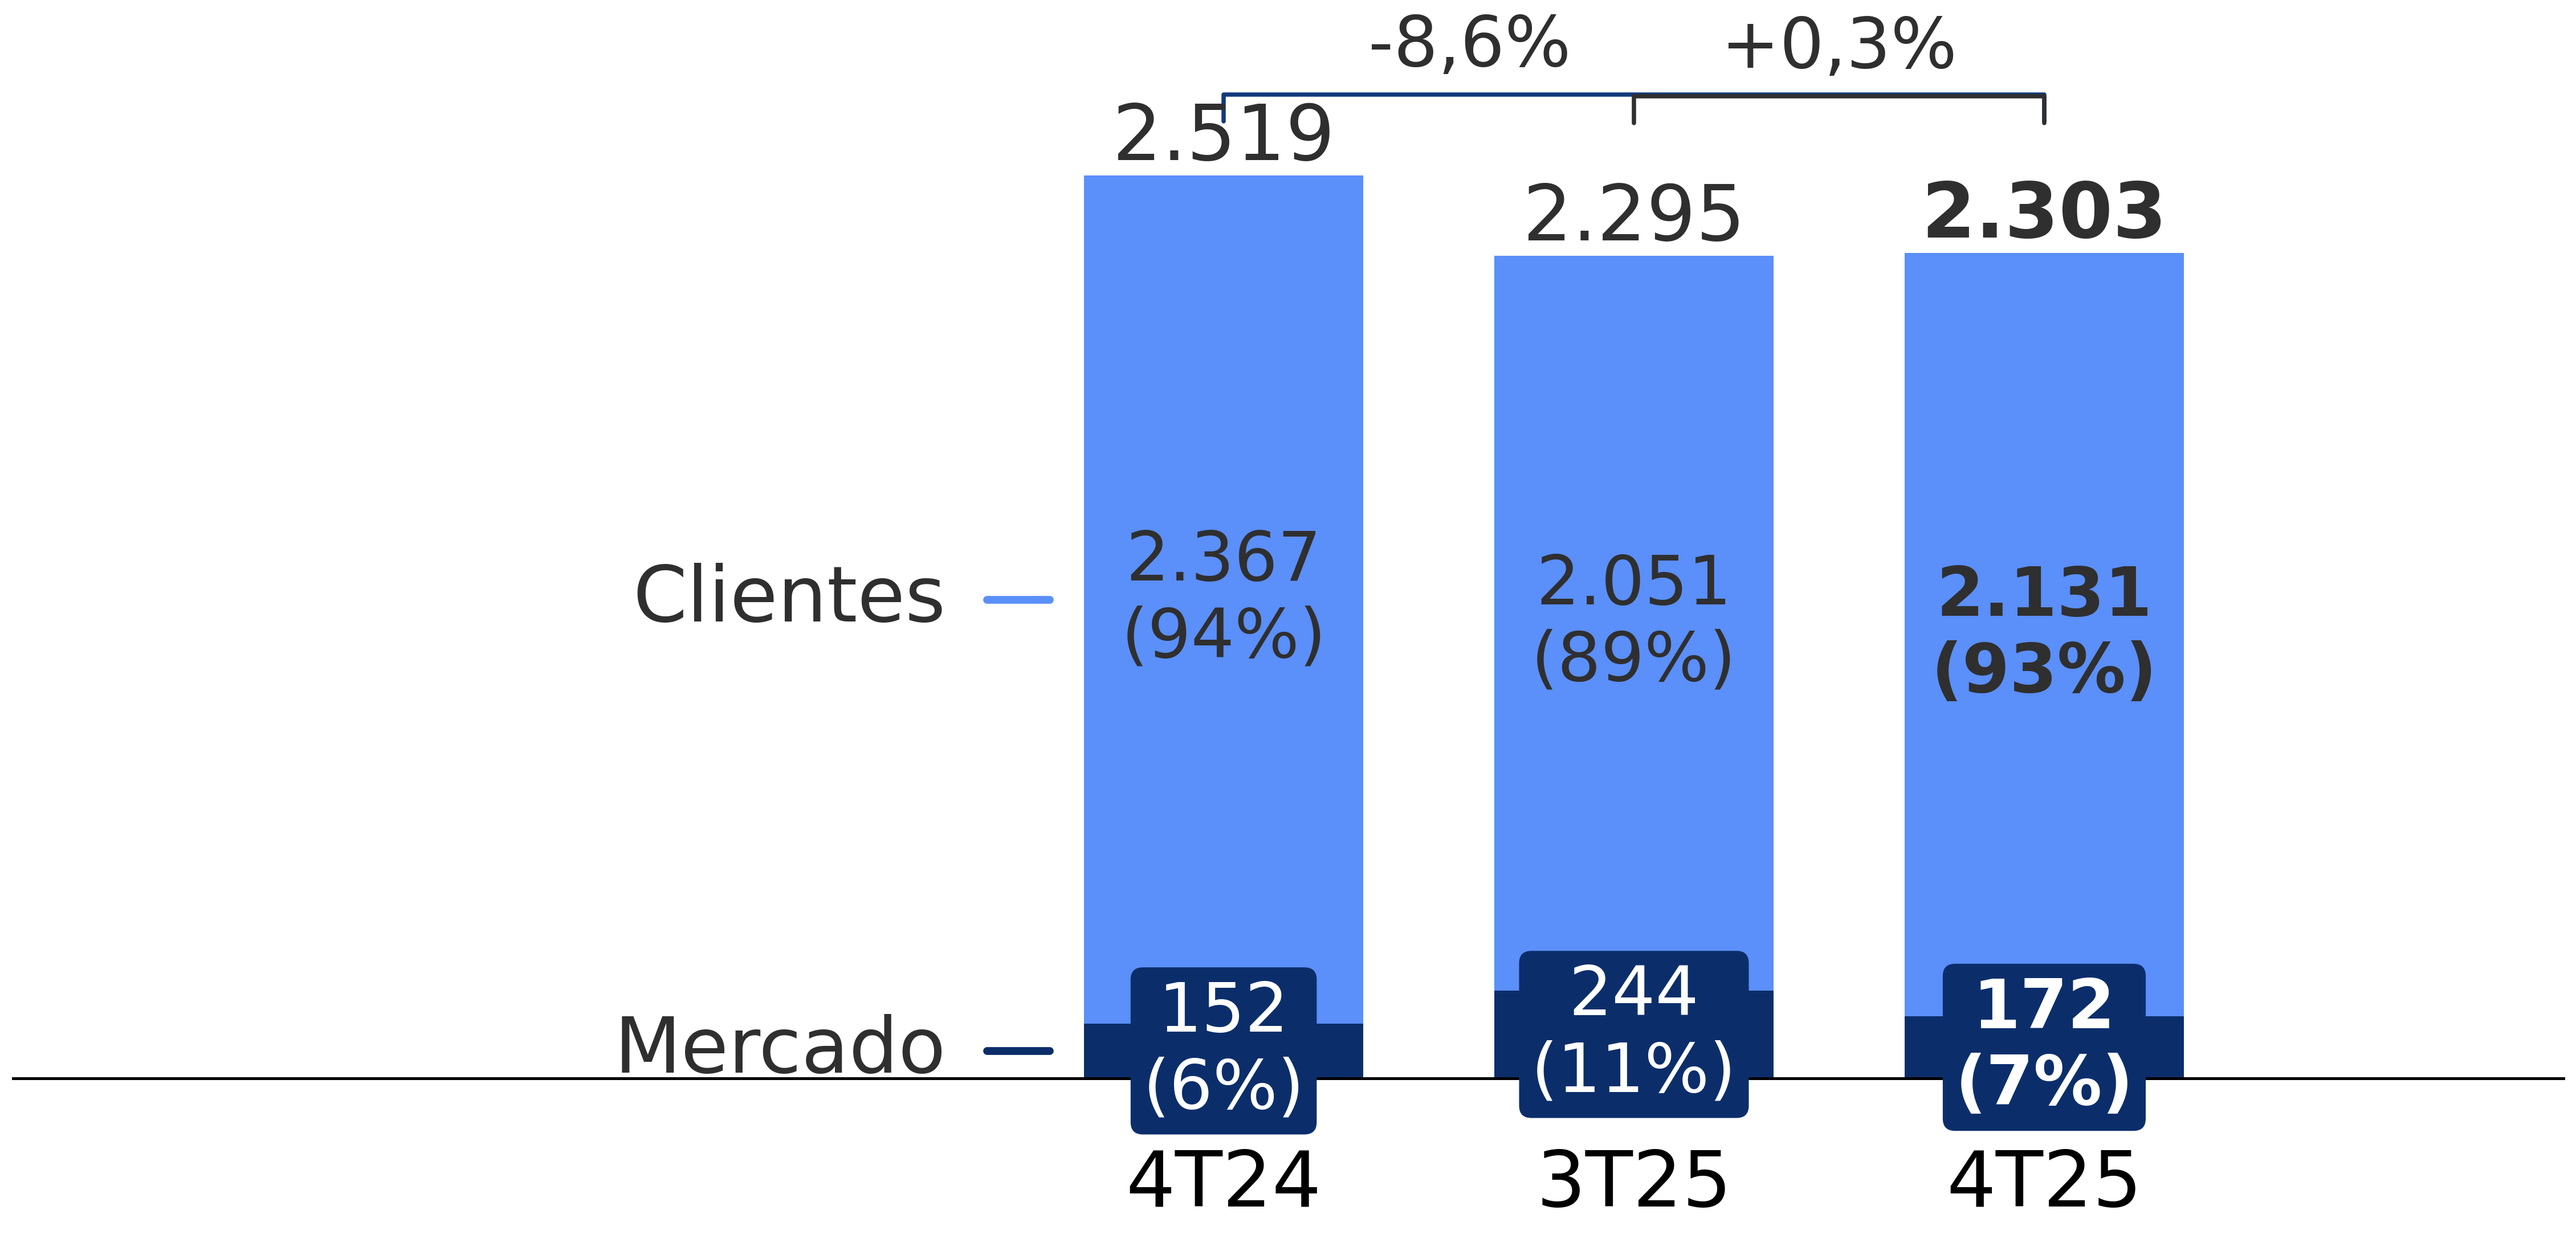
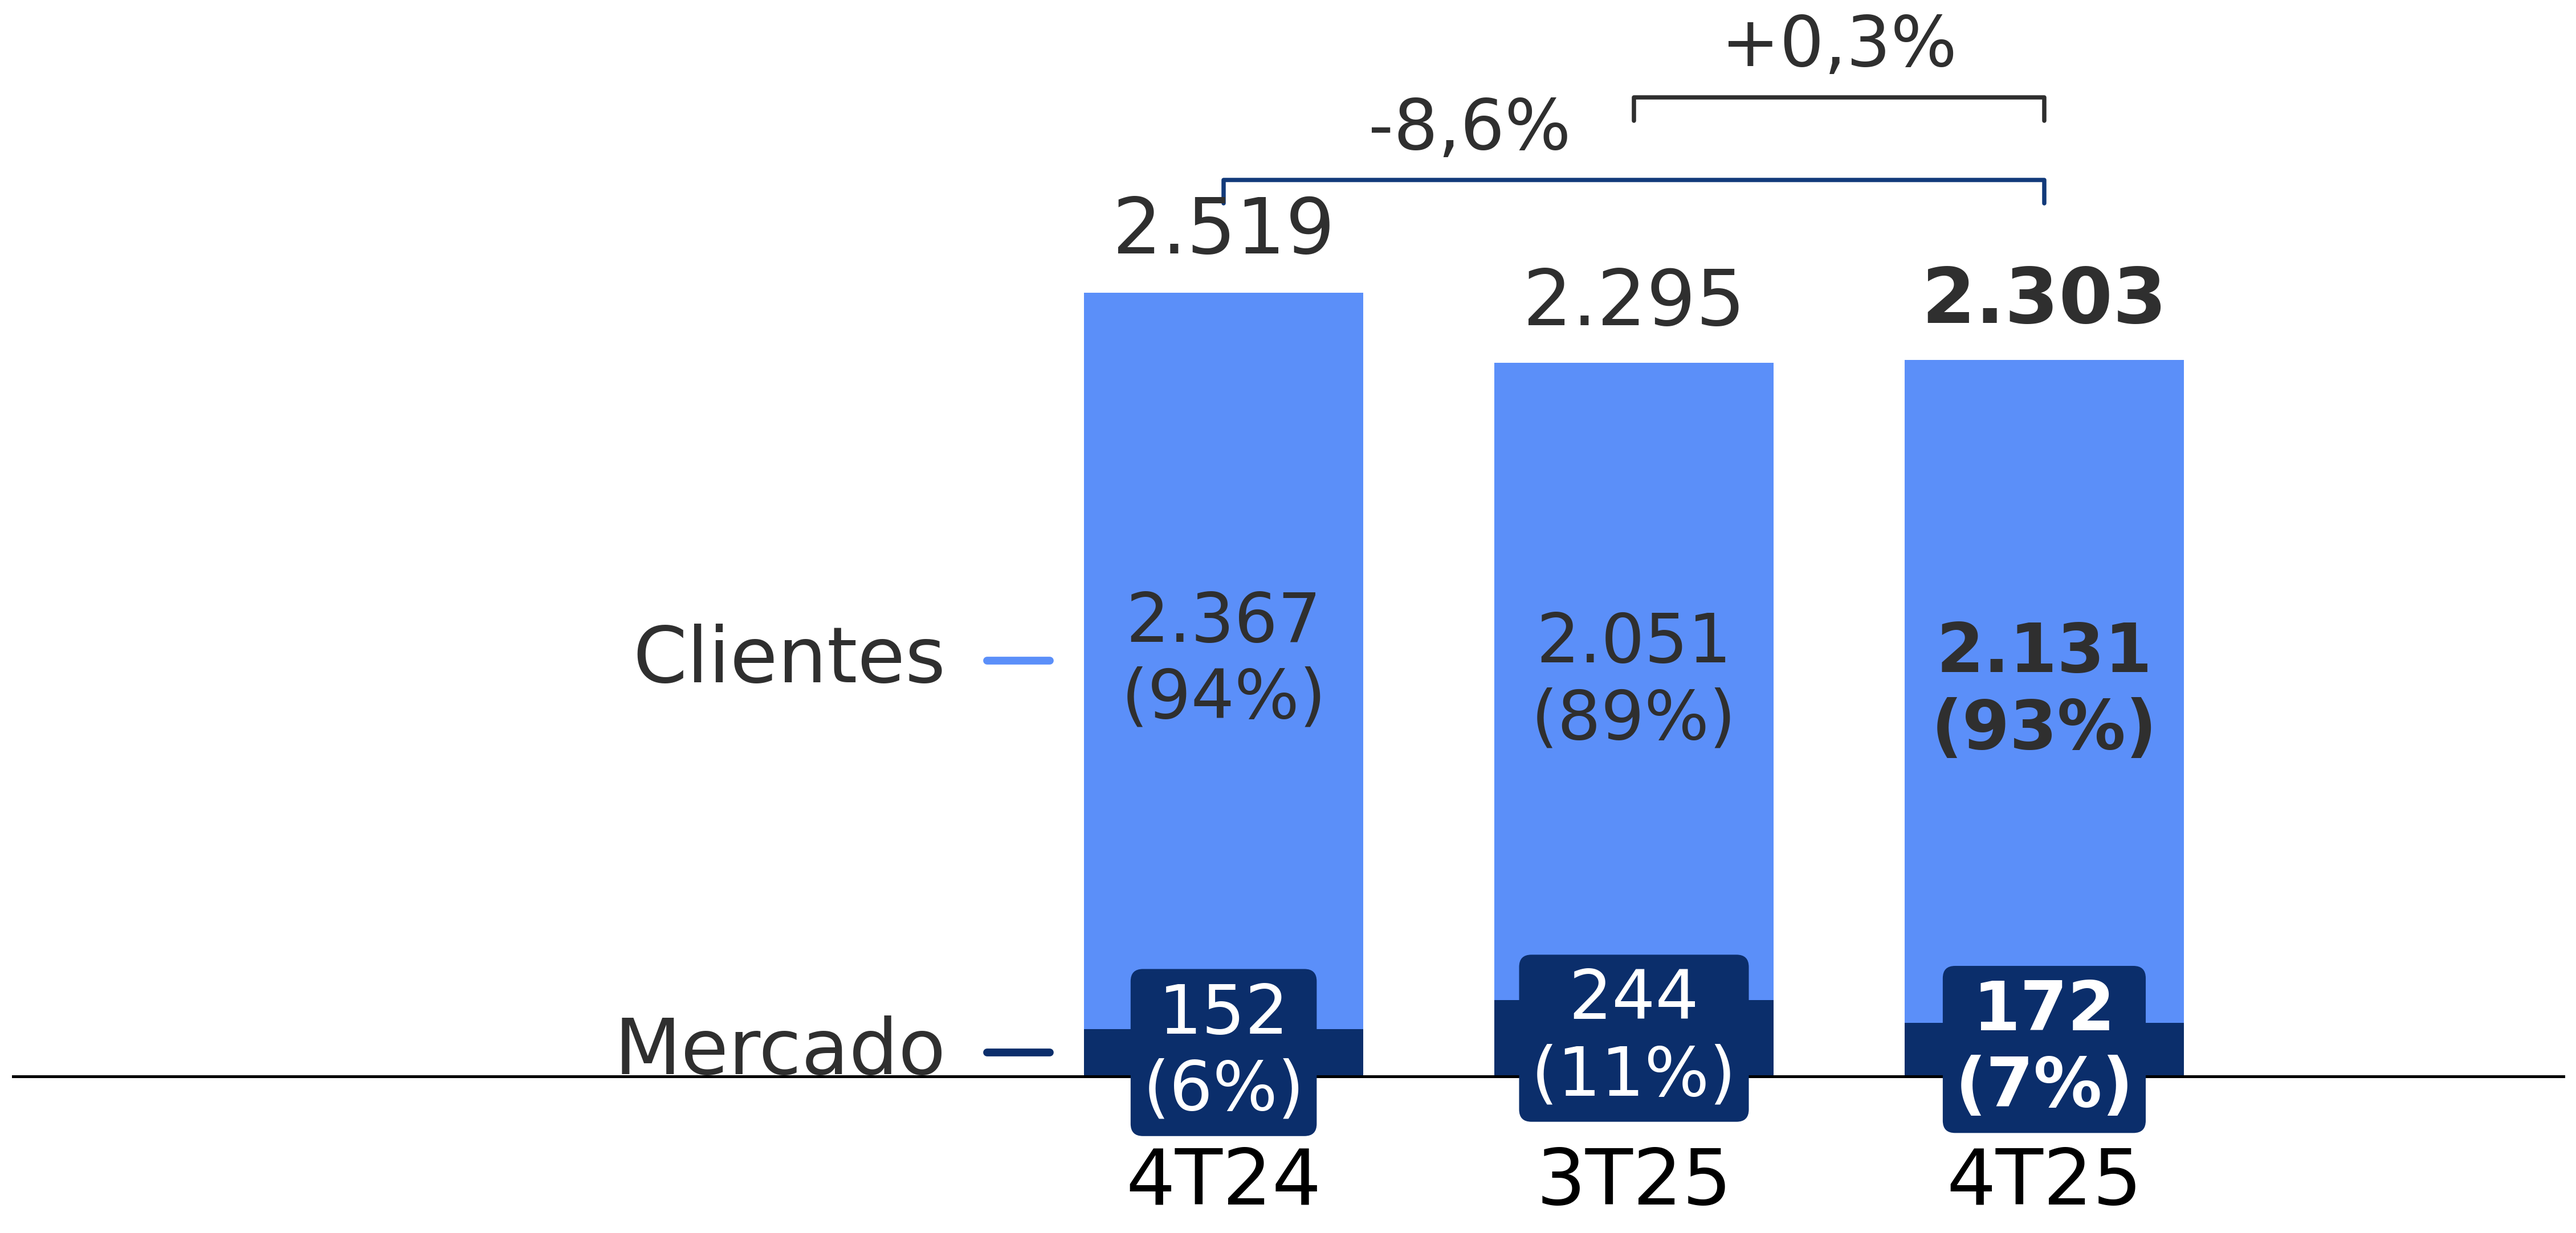
fine adjustment on slide8

diff --git a/src/utils/slides/slide8_charts.py b/src/utils/slides/slide8_charts.py
@@ -17,6 +17,7 @@ SLIDE8_TRIMESTRES_GAP_SCALE = 0.5
 SLIDE8_LEGEND_MAX_LINE_LEN = 10
 SLIDE8_9M_BAR_WIDTH_SCALE = 0.5
 SLIDE8_9M_GAP_SCALE = 0.5
+SLIDE8_DELTA_OFFSET_SCALE = 1.4
 SLIDE8_MFB_TRIMESTRES_X_TICK_PAD = 16
 SLIDE8_MFB_TRIMESTRES_LABEL_BBOX_SERIES = ("Mercado",)
 
@@ -140,6 +141,7 @@ def _plot_stacked_vertical(
     delta_label_x_fractions: tuple[float, ...] = (),
     bar_width_scale: float = 1.0,
     gap_scale: float = 1.0,
+    delta_offset_scale: float = 1.0,
     x_tick_pad: float = 8.0,
     segment_label_bbox_series_names: tuple[str, ...] = (),
 ) -> None:
@@ -260,12 +262,15 @@ def _plot_stacked_vertical(
             )
 
     # Totals on top
+    total_label_tops: list[float] = []
     for i, total in enumerate(totals):
         if not np.isfinite(total):
             continue
+        y_label = float(total) + max(abs(float(total)) * 0.03, 0.28)
+        total_label_tops.append(y_label)
         ax.text(
             float(x[i]),
-            float(total),
+            y_label,
             f"{float(total):,.0f}".replace(",", "."),
             ha="center",
             va="bottom",
@@ -325,6 +330,15 @@ def _plot_stacked_vertical(
         abs_max = float(np.nanmax(np.abs(totals))) if np.isfinite(np.nanmax(np.abs(totals))) else 0.0
         offset_y = max(abs_max * 0.06, 0.5)
         bracket_h = max(abs_max * 0.03, 0.5)
+        try:
+            effective_delta_offset_scale = float(delta_offset_scale)
+        except Exception:
+            effective_delta_offset_scale = 1.0
+        if not np.isfinite(effective_delta_offset_scale) or effective_delta_offset_scale <= 0:
+            effective_delta_offset_scale = 1.0
+        offset_y *= effective_delta_offset_scale
+        top_labels_max = max(total_label_tops) if total_label_tops else float(np.nanmax(totals))
+        top_base = top_labels_max + offset_y
 
         pairs = list(delta_pairs) if delta_pairs else [(i - 1, i) for i in range(1, n)]
 
@@ -354,8 +368,7 @@ def _plot_stacked_vertical(
 
             x1 = float(x[pi])
             x2 = float(x[ci])
-            top = max(prev, curr)
-            y_anchor = top + offset_y + level * (bracket_h + offset_y * 0.9)
+            y_anchor = top_base + level * (bracket_h + offset_y * 0.9)
             bracket_color = "#2f2f2f"
             if level < len(delta_bracket_colors):
                 candidate_color = str(delta_bracket_colors[level]).strip()
@@ -522,6 +535,7 @@ def generate_slide8_charts(
         delta_label_x_fractions=SLIDE8_TRIMESTRES_DELTA_LABEL_X_FRACTIONS,
         bar_width_scale=SLIDE8_TRIMESTRES_BAR_WIDTH_SCALE,
         gap_scale=SLIDE8_TRIMESTRES_GAP_SCALE,
+        delta_offset_scale=SLIDE8_DELTA_OFFSET_SCALE,
     )
     generated.append(out13)
 
@@ -542,6 +556,7 @@ def generate_slide8_charts(
         inline_left_legend=True,
         bar_width_scale=SLIDE8_9M_BAR_WIDTH_SCALE,
         gap_scale=SLIDE8_9M_GAP_SCALE,
+        delta_offset_scale=SLIDE8_DELTA_OFFSET_SCALE,
     )
     generated.append(out14)
 
@@ -573,6 +588,7 @@ def generate_slide8_charts(
         delta_label_x_fractions=SLIDE8_TRIMESTRES_DELTA_LABEL_X_FRACTIONS,
         bar_width_scale=SLIDE8_TRIMESTRES_BAR_WIDTH_SCALE,
         gap_scale=SLIDE8_TRIMESTRES_GAP_SCALE,
+        delta_offset_scale=SLIDE8_DELTA_OFFSET_SCALE,
         x_tick_pad=SLIDE8_MFB_TRIMESTRES_X_TICK_PAD,
         segment_label_bbox_series_names=SLIDE8_MFB_TRIMESTRES_LABEL_BBOX_SERIES,
     )
@@ -603,6 +619,7 @@ def generate_slide8_charts(
         inline_left_legend=True,
         bar_width_scale=SLIDE8_9M_BAR_WIDTH_SCALE,
         gap_scale=SLIDE8_9M_GAP_SCALE,
+        delta_offset_scale=SLIDE8_DELTA_OFFSET_SCALE,
     )
     generated.append(out16)
 
@@ -635,6 +652,7 @@ def generate_slide8_charts(
         delta_label_x_fractions=SLIDE8_TRIMESTRES_DELTA_LABEL_X_FRACTIONS,
         bar_width_scale=SLIDE8_TRIMESTRES_BAR_WIDTH_SCALE,
         gap_scale=SLIDE8_TRIMESTRES_GAP_SCALE,
+        delta_offset_scale=SLIDE8_DELTA_OFFSET_SCALE,
     )
     generated.append(out17)
 
@@ -662,6 +680,7 @@ def generate_slide8_charts(
         inline_left_legend=True,
         bar_width_scale=SLIDE8_9M_BAR_WIDTH_SCALE,
         gap_scale=SLIDE8_9M_GAP_SCALE,
+        delta_offset_scale=SLIDE8_DELTA_OFFSET_SCALE,
     )
     generated.append(out18)
 

diff --git a/tests/test_slide8_charts.py b/tests/test_slide8_charts.py
@@ -10,6 +10,7 @@ from openpyxl import Workbook
 from src.utils.slides.slide8_charts import (
     SLIDE8_9M_BAR_WIDTH_SCALE,
     SLIDE8_9M_GAP_SCALE,
+    SLIDE8_DELTA_OFFSET_SCALE,
     SLIDE8_FONT_SCALE,
     SLIDE8_LEGEND_MAX_LINE_LEN,
     SLIDE8_MFB_TRIMESTRES_LABEL_BBOX_SERIES,
@@ -186,6 +187,7 @@ class TestSlide8Charts(unittest.TestCase):
             self.assertEqual(kwargs["delta_label_x_fractions"], SLIDE8_TRIMESTRES_DELTA_LABEL_X_FRACTIONS)
             self.assertEqual(kwargs["bar_width_scale"], SLIDE8_TRIMESTRES_BAR_WIDTH_SCALE)
             self.assertEqual(kwargs["gap_scale"], SLIDE8_TRIMESTRES_GAP_SCALE)
+            self.assertEqual(kwargs["delta_offset_scale"], SLIDE8_DELTA_OFFSET_SCALE)
             if index == 2:
                 self.assertEqual(kwargs["x_tick_pad"], SLIDE8_MFB_TRIMESTRES_X_TICK_PAD)
                 self.assertEqual(kwargs["segment_label_bbox_series_names"], SLIDE8_MFB_TRIMESTRES_LABEL_BBOX_SERIES)
@@ -198,6 +200,7 @@ class TestSlide8Charts(unittest.TestCase):
             self.assertEqual(kwargs["font_scale"], SLIDE8_FONT_SCALE)
             self.assertEqual(kwargs["bar_width_scale"], SLIDE8_9M_BAR_WIDTH_SCALE)
             self.assertEqual(kwargs["gap_scale"], SLIDE8_9M_GAP_SCALE)
+            self.assertEqual(kwargs["delta_offset_scale"], SLIDE8_DELTA_OFFSET_SCALE)
             self.assertNotIn("delta_pairs", kwargs)
             self.assertNotIn("delta_bracket_colors", kwargs)
             self.assertNotIn("delta_label_x_fractions", kwargs)
@@ -244,6 +247,14 @@ class TestSlide8Charts(unittest.TestCase):
             self.assertEqual([text.get_text() for text in delta_texts], ["+50,0%", "+25,0%"])
             bracket_lines = [line for line in ax.lines if len(line.get_xdata()) == 4]
             self.assertEqual([line.get_color() for line in bracket_lines[:2]], list(SLIDE8_TRIMESTRES_DELTA_BRACKET_COLORS))
+            top_labels = [
+                text for text in ax.texts
+                if text.get_text() in {"100", "120", "150"}
+            ]
+            self.assertTrue(top_labels)
+            highest_top_label_y = max(text.get_position()[1] for text in top_labels)
+            lowest_bracket_y = min(max(line.get_ydata()) for line in bracket_lines[:2])
+            self.assertGreater(lowest_bracket_y, highest_top_label_y)
 
             expected_legend_texts = {
                 _wrap_words("Margem Financeira Bruta", max_line_len=SLIDE8_LEGEND_MAX_LINE_LEN),
